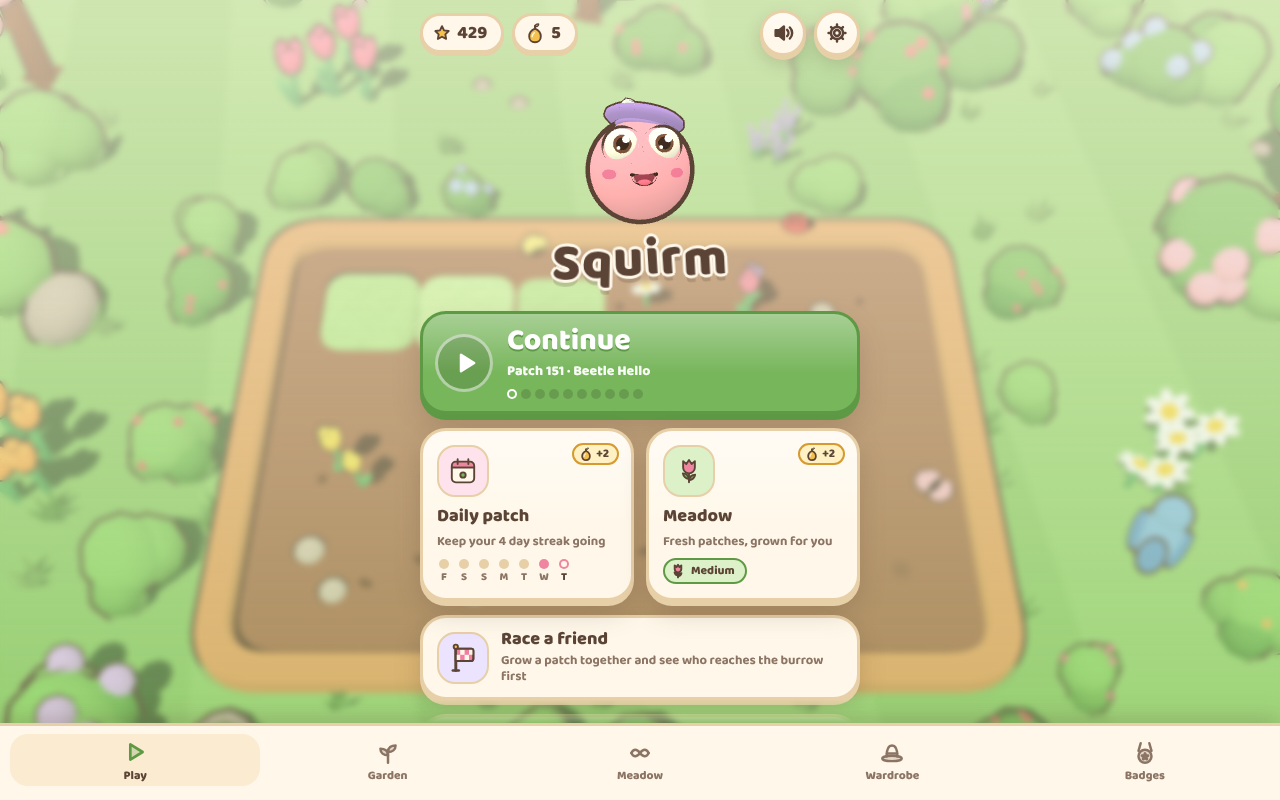
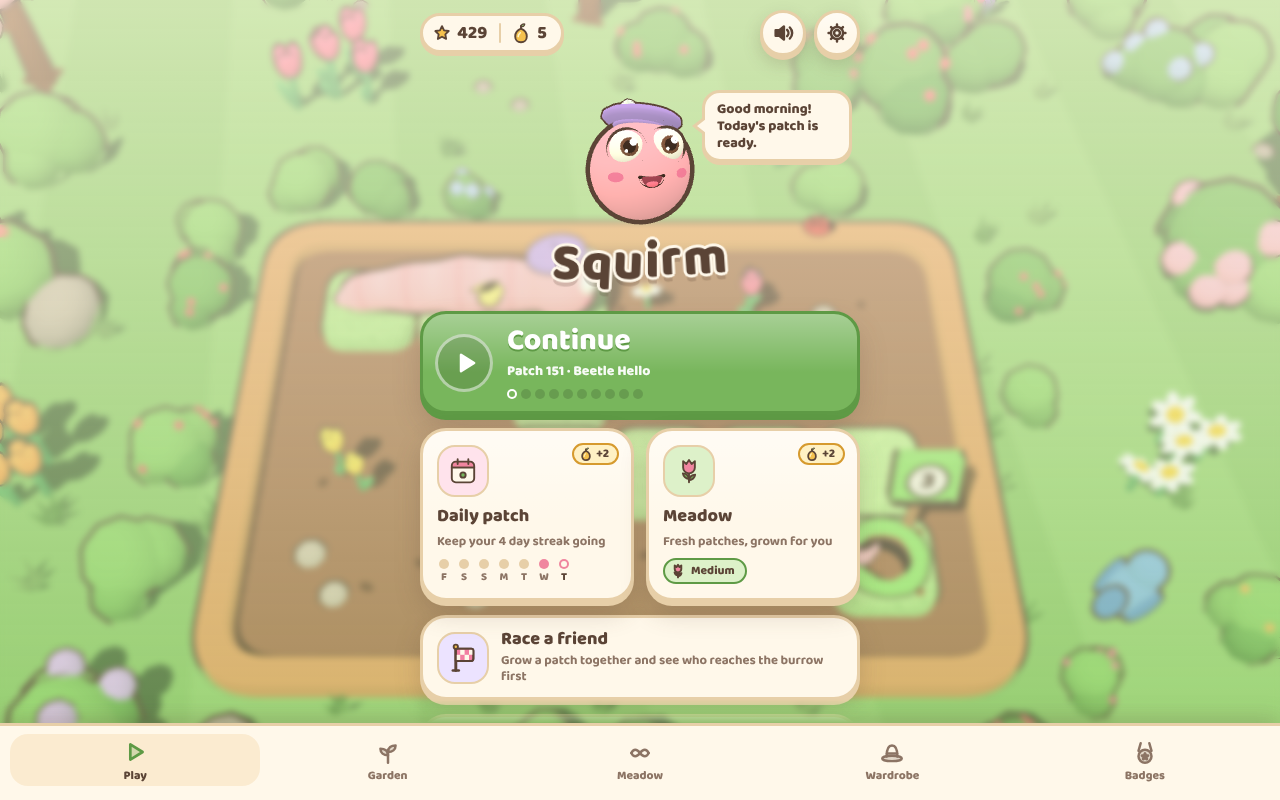
Home: one stars-and-seeds pill, a Your garden dialog, and a goal card like the others
- Stars and hint seeds share one pill with a line between
- Tapping the stars opens Your garden so far: totals, the closest badges and every counter we keep
- The badge card on Play uses the badge name as its title and what earns it as the description

Claude-Session: https://claude.ai/code/session_018b3cP1De1FMBieJja8GZr1

diff --git a/src/shell.html b/src/shell.html
@@ -186,6 +186,22 @@ button:focus-visible{outline:3px solid var(--honey);outline-offset:2px}
 .sheet .label-row p.label{margin:0}
 /* out of hint seeds: where to grow more */
 .seeds .seed-art{flex:none;align-self:center;width:84px;height:84px;margin:2px auto 0;border-radius:22px;display:grid;place-items:center;background:var(--tint-honey);border:3px solid var(--honey-dark);box-shadow:0 4px 0 var(--honey-dark);--art-halo:none}
+/* your garden so far (the stars pill): totals, the closest badges and every counter we keep */
+.gar{display:flex;flex-direction:column;overflow:hidden}
+.gar-body{flex:1 1 auto;min-height:0;overflow:auto;overscroll-behavior:contain;display:flex;flex-direction:column;gap:10px;margin:0 -20px 14px;padding:2px 20px 6px;text-align:left}
+.gar-body p{margin:0;text-align:center}
+.gar-body p.label{margin:6px 0 -2px;text-align:left}
+.gar-tops{display:grid;grid-template-columns:repeat(3,1fr);gap:8px}
+.gar-tops span{display:flex;flex-direction:column;align-items:center;gap:3px;padding:8px 4px 7px;border-radius:18px;background:var(--paper-2);border:2px solid var(--edge);font:800 18px/1 var(--fd);color:var(--ink);text-align:center}
+.gar-tops small,.gar-grid small{font:800 11px/1.15 var(--fb);color:var(--ink-soft)}
+.gar-body .seed-how{margin:0}
+.gar-near li{cursor:pointer}
+.gar-near li>span:not(.ic){display:flex;flex-direction:column;gap:2px;min-width:0}
+.gar-near small{font:700 12px/1.25 var(--fb);color:var(--ink-soft)}
+.gar-grid{display:grid;grid-template-columns:1fr 1fr;gap:8px}
+.gar-grid>span{display:flex;align-items:center;gap:8px;padding:6px 8px;border-radius:14px;background:var(--paper-2);border:2px solid var(--edge);min-width:0}
+.gar-grid .gv{display:flex;flex-direction:column;gap:2px;min-width:0}
+.gar-grid b{display:block;font:800 16px/1.1 var(--fd);color:var(--ink)}
 /* race a friend: the invite, reply, connecting and countdown steps share one dialog (race.js sets data-step) */
 .race-ico{background:var(--tint-lilac)}
 /* the race row under the HUD: your friend on the left, the race clock on the right */
@@ -211,7 +227,6 @@ body[data-mode="race"] #hintBtn{display:none}
 .seed-how[hidden]{display:none}
 .seed-how li{display:flex;align-items:center;gap:10px;padding:8px 12px;border-radius:14px;background:var(--paper-2);border:2px solid var(--edge);font-weight:700;font-size:14px;line-height:1.3;color:var(--ink)}
 .seed-how li b{margin-left:auto;font:800 14px/1 var(--fd);white-space:nowrap}
-button.seed-pill{cursor:pointer;color:var(--ink);font:800 18px/1 var(--fd)}
 .seed-go{display:flex;flex-direction:column;gap:10px}
 .seed-go .btn{flex:none}
 /* "something new": the intro keeps its button in view */
@@ -363,10 +378,12 @@ nav{display:flex;justify-content:center;align-items:flex-end;gap:12px}
 .home.show{display:flex;flex-direction:column;align-items:stretch;place-items:stretch}
 .home-top{flex:none;display:flex;justify-content:space-between;align-items:center;gap:8px;padding:0 max(14px,env(safe-area-inset-right,0px)) 0 max(14px,env(safe-area-inset-left,0px));width:min(100%,468px);margin:0 auto}
 .home-top-tools{display:flex;gap:8px}
-.star-pill{display:inline-flex;align-items:center;gap:6px;height:40px;padding:0 14px 0 10px;border-radius:999px;background:var(--paper);border:3px solid var(--edge);box-shadow:0 3px 0 var(--edge);font:800 18px/1 var(--fd)}
-.home-pills{display:inline-flex;gap:8px}
-.seed-pill{padding:0 14px 0 8px;gap:4px}
-.seed-pill:empty{display:none}
+/* stars and hint seeds share one pill, two buttons with a line between */
+.home-pills{display:inline-flex;align-items:center;height:40px;border-radius:999px;background:var(--paper);border:3px solid var(--edge);box-shadow:0 3px 0 var(--edge)}
+.home-pills .hp{display:inline-flex;align-items:center;gap:6px;height:100%;padding:0 12px 0 10px;border:0;border-radius:999px;background:none;color:var(--ink);font:800 18px/1 var(--fd);cursor:pointer}
+.home-pills .seed-pill{padding:0 14px 0 8px;gap:4px}
+.hp:empty,.hp-sep:has(+ .hp:empty){display:none}
+.hp-sep{flex:none;width:2px;height:20px;border-radius:2px;background:var(--edge)}
 /* a little "+2" chip with a hint seed: on the Daily and Meadow cards and the out-of-seeds dialog */
 .seed-chip{display:inline-flex;align-items:center;gap:2px;margin-left:4px;padding:1px 8px 1px 4px;border-radius:999px;background:var(--tint-honey);border:2px solid var(--honey-dark);color:var(--deep);font:800 12px/1.2 var(--fd);vertical-align:middle}
 .home-duo .big{position:relative}
@@ -453,6 +470,7 @@ body.photo .wsay{display:none}
 .goal .gt{flex:1;min-width:0;display:flex;flex-direction:column;gap:3px}
 .goal .gt small{font:800 11px/1 var(--fb);color:var(--ink-soft);text-transform:uppercase;letter-spacing:.06em}
 .goal .gt b{font:800 18px/1.1 var(--fd)}
+.goal .gt>small{font:700 13px/1.25 var(--fb);color:var(--ink-soft);text-transform:none;letter-spacing:0}
 .goal .gt em{font:700 13px/1.25 var(--fb);color:var(--ink-soft);font-style:normal}
 .goal .gbar{display:flex;align-items:center;gap:8px;font:800 12px/1 var(--fb);color:var(--ink-soft)}
 .goal .gbar .b-bar{flex:1;max-width:140px;height:8px}
@@ -852,7 +870,7 @@ body.big-text .hud-stats{zoom:.9}
 <div class="petals" id="petals"></div>
 <div class="home ov show" id="homeOv">
   <div class="home-top">
-    <span class="home-pills"><span class="star-pill" id="homeStars" aria-label="Stars"></span><button class="star-pill seed-pill" id="homeSeeds" aria-label="Hint seeds: what they are"></button></span>
+    <span class="home-pills"><button class="hp" id="homeStars" aria-label="Stars: how your garden is doing"></button><i class="hp-sep" aria-hidden="true"></i><button class="hp seed-pill" id="homeSeeds" aria-label="Hint seeds: what they are"></button></span>
     <span class="home-top-tools"><button class="round" id="homeSound"></button><button class="round" id="installBtn" aria-label="Install Squirm as an app" hidden><svg viewBox="0 0 24 24" width="22" height="22" aria-hidden="true" fill="none" stroke="currentColor" stroke-width="2.7" stroke-linecap="round" stroke-linejoin="round"><path d="M12 4v11M7 10l5 5 5-5"/><path d="M5 19h14"/></svg></button><button class="round" id="settingsBtn" aria-label="Settings" title="Settings"><svg viewBox="0 0 24 24" width="22" height="22" aria-hidden="true" fill="none" stroke="currentColor" stroke-width="2.7" stroke-linecap="round" stroke-linejoin="round"><circle cx="12" cy="12" r="3.2"/><path d="M12 2.8v2.4M12 18.8v2.4M2.8 12h2.4M18.8 12h2.4M5.5 5.5l1.7 1.7M16.8 16.8l1.7 1.7M5.5 18.5l1.7-1.7M16.8 7.2l1.7-1.7"/><circle cx="12" cy="12" r="6.6"/></svg></button></span>
   </div>
   <div class="tab-pages">
@@ -1002,6 +1020,12 @@ body.big-text .hud-stats{zoom:.9}
   <span class="seed-art" aria-hidden="true" data-art="hintseed" data-size="54"></span>
   <h2 id="seedTitle">Out of hint seeds</h2><p id="seedText"></p><ul class="seed-how" id="seedHow"></ul>
   <div class="seed-go"><button class="btn primary" id="seedDaily"></button><button class="btn" id="seedMeadow"></button><button class="btn" id="seedKeep"></button></div>
+</div></div>
+<div class="ov" id="garOv"><div role="dialog" aria-modal="true" aria-labelledby="garTitle" class="dialog card seeds gar">
+  <span class="seed-art" aria-hidden="true" data-art="stars" data-size="54"></span>
+  <h2 id="garTitle">Your garden so far</h2>
+  <div class="gar-body fade-scroll" id="garBody"></div>
+  <div class="seed-go"><button class="btn primary" id="garBadges">See all badges</button><button class="btn" id="garOk">Got it</button></div>
 </div></div>
 <div class="ov" id="raceOv"><div role="dialog" aria-modal="true" aria-labelledby="raceTitle" class="dialog card race">
   <span class="race-art" aria-hidden="true" data-art="race" data-size="54"></span>

diff --git a/src/game/ui/finale.js b/src/game/ui/finale.js
@@ -31,10 +31,34 @@ $('surprise').onclick=()=>{ const ks=['fruit','keys','portals','dry','rain','riv
     qa($('featGrid'),'.mech.on').forEach(settle); };
 $('meadowBtn').onclick=()=>{ ensureAudio(); if(!continueEndless()) newEndless(); };
 // the badge closest to being earned, as a little goal on the Play tab; tapping opens it on the Badges tab
+// the home card for the closest badge: its name as the title and what earns it below, with a bar when it counts up
 function renderGoal(){ const g=$('goalCard'), id=nearestBadge(), b=badgeById(id), p=badgeProg(b);
   if(!b||progress.badges[id]){ g.hidden=true; return; } g.hidden=false; g.dataset.b=id;
-  g.innerHTML=`<span class="b-medal" aria-hidden="true">${art(b[1],32)}<span class="b-lock">${art('lock',12)}</span></span><span class="gt"><small>${p?'Almost there':'Next badge'}</small><b>${b[2]}</b>`
-    +(p?`<span class="gbar"><span class="b-bar" style="--p:${pct(p)}"></span>${p[0].toLocaleString()} of ${p[1].toLocaleString()}</span>`:`<em>${b[3]}</em>`)+`</span>`; }
+  g.innerHTML=`<span class="b-medal" aria-hidden="true">${art(b[1],32)}<span class="b-lock">${art('lock',12)}</span></span><span class="gt"><b>${b[2]}</b><small>${b[3]}</small>`
+    +(p?`<span class="gbar"><span class="b-bar" style="--p:${pct(p)}"></span>${p[0].toLocaleString()} of ${p[1].toLocaleString()}</span>`:'')+`</span>`; }
+// Your garden so far, from the stars pill: the big totals, the badges closest to earning and every counter we keep,
+// so players can see where they stand for the badges they're after
+const GAR_STATS=[['worm','Moves crawled','moves'],['peach','Snacks eaten','fruit'],['flag','Flags touched','flags'],['key','Gates opened','gates'],
+  ['tunnel','Tunnel trips','tunnels'],['rain','Rains started','rains'],['bridge','Bridge swings','swings'],['flowerbtn','Hedges opened','hedges'],
+  ['wetleaf','Leaf slides','slides'],['beetle','Beetle bumps','pushes'],['sunflower','Pollen dustings','dusts'],['sprout','Burrowed under','burrows'],
+  ['turnshroom','Twirls','turns'],['zzz','Naps','naps'],['calendar','Days played','days'],['sun','Daily patches','dailies'],
+  ['flame','Best daily streak',()=>progress.daily.best||0],['tulip','Meadow patches',()=>Object.values(progress.endless||{}).reduce((n,e)=>n+(e&&e.cleared||0),0)],
+  ['hintseed','Seeds grown','seedsGot'],['camera','Photos','photos'],['bowtie','Outfit changes','outfits'],['rewind','Undos','undos'],
+  ['race','Races','races'],['trophy','Races won','raceWins']];
+function gardenInfo(){ const st=progress.stats, v=x=>typeof x==='function'?x():(st[x]||0);
+  const grown=LEVELS.filter((l,i)=>isCleared(i)).length, got=BADGES.filter(b=>progress.badges[b[0]]).length;
+  const near=BADGES.map(b=>[b,badgeProg(b)]).filter(x=>x[1]&&x[1][0]>0).sort((x,y)=>y[1][0]/y[1][1]-x[1][0]/x[1][1]).slice(0,4);
+  $('garBody').innerHTML=`<p>Everything you do in the garden counts toward a badge. Here's where you stand.</p>`
+    +`<div class="gar-tops"><span>${starTotal().toLocaleString()}<small>of ${(LEVELS.length*3).toLocaleString()} stars</small></span><span>${grown}<small>of ${LEVELS.length} patches</small></span><span>${got}<small>of ${BADGES.length} badges</small></span></div>`
+    +(near.length?`<p class="label">Closest badges</p><ul class="seed-how gar-near">${near.map(([b,p])=>`<li data-b="${b[0]}" role="button" tabindex="0"><span class="ic" aria-hidden="true">${art(b[1],18)}</span><span><b>${b[2]}</b><small>${b[3]}</small></span><b>${p[0].toLocaleString()} of ${p[1].toLocaleString()}</b></li>`).join('')}</ul>`:'')
+    +`<p class="label">What we've counted</p><div class="gar-grid">${GAR_STATS.map(([ic,t,k])=>`<span><span class="ic" aria-hidden="true">${art(ic,18)}</span><span class="gv"><b>${v(k).toLocaleString()}</b><small>${t}</small></span></span>`).join('')}</div>`;
+  $('garBody').scrollTop=0; show('garOv'); pushLayer('gar'); }
+const garTo=id=>{ hide('garOv'); if(layers.includes('tab')) popLayer('gar'); else swapLayers('gar','tab'); badgeSel=id; badgeFilter='all'; showTab('badges'); };
+$('homeStars').onclick=()=>{ ensureAudio(); gardenInfo(); };
+$('garOk').onclick=()=>{ hide('garOv'); popLayer('gar'); };
+$('garBadges').onclick=()=>garTo(nearestBadge());
+$('garBody').addEventListener('click',e=>{ const li=e.target.closest('[data-b]'); if(li) garTo(li.dataset.b); });
+$('garBody').addEventListener('keydown',e=>{ const li=e.target.closest('[data-b]'); if(li&&(e.key==='Enter'||e.key===' ')){ e.preventDefault(); garTo(li.dataset.b); } });
 $('goalCard').onclick=()=>{ badgeSel=$('goalCard').dataset.b; badgeFilter='all'; showTab('badges'); };
 // The home worm speaks now and then, not all the time: a greeting on the first visit and sometimes after that, a word on
 // some taps, and a run of jokes when someone keeps poking it. Every bubble fades away after a few seconds.

diff --git a/src/game/ui/dialogs.js b/src/game/ui/dialogs.js
@@ -15,7 +15,7 @@ function hide(id){ const o=$(id); if(id==='homeOv'){ o.classList.remove('show');
 // open and not on its way out
 const isOpen=id=>{ const c=$(id).classList; return c.contains('show')&&!c.contains('out'); };
 function hideAll(){ ['winOv','homeOv','setOv','finOv'].forEach(hide); }
-function anyOverlay(){ return ['winOv','homeOv','genOv','introOv','resetOv','setOv','finOv','seedOv'].some(isOpen); }
+function anyOverlay(){ return ['winOv','homeOv','genOv','introOv','resetOv','setOv','finOv','seedOv','garOv'].some(isOpen); }
 function renderMute(){ if($('homeSound')){ const hb=$('homeSound'); hb.setAttribute('aria-label',muted?'Turn sound on':'Turn sound off');
   setTimeout(()=>{ hb.innerHTML=$('muteBtn').innerHTML; },0); } const b=$('muteBtn'); b.setAttribute('aria-pressed',String(muted));
   b.setAttribute('aria-label',muted?'Turn sound on':'Turn sound off');

diff --git a/src/game/platform/offline.js b/src/game/platform/offline.js
@@ -3,7 +3,7 @@
 // than relaunched, so check for one whenever the app comes back to the foreground, and reload into
 // the new version at a calm moment: right away on the home screen, otherwise on the way back home.
 let updateReady=false;
-const calmMoment=()=>$('homeOv').classList.contains('show') && !generating && !['winOv','genOv','introOv','resetOv','setOv','finOv','seedOv'].some(isOpen);
+const calmMoment=()=>$('homeOv').classList.contains('show') && !generating && !['winOv','genOv','introOv','resetOv','setOv','finOv','seedOv','garOv'].some(isOpen);
 if('serviceWorker' in navigator && /^https?:$/.test(location.protocol)){
   const hadWorker=!!navigator.serviceWorker.controller; let controlled=hadWorker, reg=null;
   const check=()=>{ if(reg&&navigator.onLine!==false) reg.update().catch(()=>{}); };

diff --git a/src/game/home/tabs.js b/src/game/home/tabs.js
@@ -1,7 +1,7 @@
 // ---------- home ----------
 function showHome(quiet){ noteQuit(); if(mode==='race'&&race&&!isOpen('raceOv')) raceEnd(); if(updateReady){ location.reload(); return; } document.title='Squirm'; const was=curTab; showTab('play',true); renderHome();
   show('homeOv');
-  if(quiet) return; if(was==='play') tabIntro('play'); stagger(document.querySelectorAll('.home-top .star-pill,.home-top .round:not([hidden])'),'enter',0,50);
+  if(quiet) return; if(was==='play') tabIntro('play'); stagger(document.querySelectorAll('.home-top .home-pills,.home-top .round:not([hidden])'),'enter',0,50);
     stagger(document.querySelectorAll('.tabbar .tab'),'rise',150,40); }
 // ---------- home tabs: Play, Garden (patch list), Meadow (endless), Me (wardrobe), Badges ----------
 let curTab='play';

diff --git a/src/game/ui/layers.js b/src/game/ui/layers.js
@@ -15,6 +15,7 @@ window.addEventListener('popstate',()=>{ if(ignorePop>0){ ignorePop--; return; }
   if(top==='intro') closeIntro(true);
   else if(top==='reset') hide('resetOv');
   else if(top==='seeds') hide('seedOv');
+  else if(top==='gar') hide('garOv');
   else if(top==='race') raceCancel(true);
   else if(top==='finale') hide('finOv');
   else if(top==='settings') hide('setOv');

diff --git a/CLAUDE.md b/CLAUDE.md
@@ -360,7 +360,7 @@ says which file holds what, and a search for a function name finds it fast.
   7th streak day), a meadow patch +1 (hard +2), +1 for the first meadow patch of the day (`progress.meadowDay`).
   Asking again for the same position is free. An empty pouch opens `seedOv` (`openSeeds`), which sends the player
   to the daily or the meadow; the garden patch keeps its own resume slot. The count shows on the hint button
-  (`#seedN`, `renderSeeds` from `updateHUD`), the home pill `#homeSeeds` (tap: `seedInfo`, the same dialog as an
+  (`#seedN`, `renderSeeds` from `updateHUD`), the seeds half of the home pill (`#homeSeeds`; tap: `seedInfo`, the same dialog as an
   explainer) and chips on the Daily and Meadow cards. `stats.seedsGot` counts seeds grown; 30 unlock the `idea` hat.
 - **HUD** (`play/hud.js`): `updateHUD` shows the moves meter with par and chips (`hudTile`) only for what isn't visible on
   the board: flags touched, keys held and length vs the burrow. Weather, hedges and pollen show in the
@@ -411,7 +411,10 @@ says which file holds what, and a search for a function name finds it fast.
 
 ### Home (`homeOv`; `home/`, the map in `play/levels.js`)
 
-Five tabs switched by `showTab`. Leaving Play pushes a `tab` layer, so back returns to Play; opening a patch
+Five tabs switched by `showTab`. Above them, stars and hint seeds share one pill (`.home-pills`, two buttons with a
+line between): the seeds half opens `seedInfo`, the stars half `gardenInfo` (`garOv`, layer `gar`, in `ui/finale.js`):
+the big totals (stars, patches, badges), the four badges closest to earning (tap one to open it on Badges) and every
+counter in `GAR_STATS`, so players see where they stand. Add a row there when you add a counter a badge uses. Leaving Play pushes a `tab` layer, so back returns to Play; opening a patch
 from a tab replaces that layer with `game`.
 
 - **Play:** the worm with a speech bubble that speaks now and then and fades after a few seconds (`say`): `sayHello`
@@ -419,7 +422,8 @@ from a tab replaces that layer with `game`.
   taps start the poking jokes (`sayTap`, `SAY_SPAM`). Continue with the chapter's pips, Daily (its week as dots
   with weekday letters, the same look as the pips: filled done, ring today) and Meadow (a chip with the difficulty
   it grows) side by side (Meadow grows or resumes a patch in one tap), the closest
-  badge (`renderGoal`, which opens it on Badges), and the what's new card.
+  badge (`renderGoal`: its name as the title, what earns it below and a bar when it counts up; opens it on Badges),
+  and the what's new card.
 - **Garden:** the map. `renderLevelList` draws one scene per chapter with its patches as stepping stones on
   a winding SVG path; closed chapters fold into a small card; tapping a stone picks it (`pickPatch`) and
   shows its card with a `drawThumb` preview and the mechanics it uses, and tapping again plays. Above the
